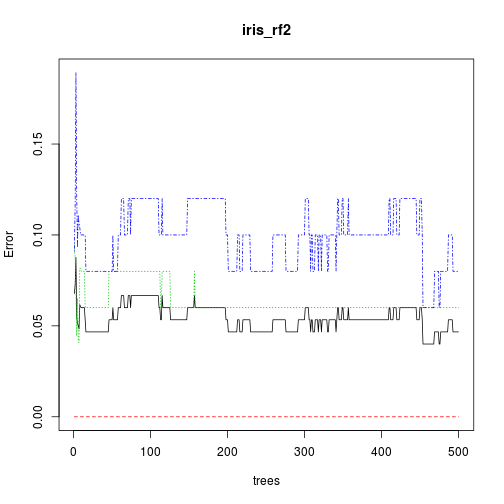
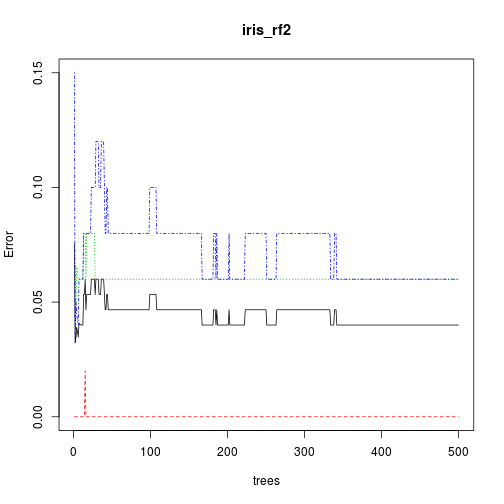
automatic build of site

diff --git a/_posts/2015-01-15-07-Analyze.md b/_posts/2015-01-15-07-Analyze.md
@@ -8,7 +8,7 @@ layout: post_page
 
 The second section will run through a quick example of using a package, `randomForest` for some analysis.  I've included this section just to show how (relatively) trivial it is to add an advanced capability to R via packages.
 
-#Quick Links to Exercises and R code
+##Quick Links to Exercises and R code
 - [Lesson 7 R Code](/gedr/rmd_posts/2015-01-14-07-Analyze.R): All the code from this post in an R Script.
 - [Exercise 1](#exercise-1): Use random forests to predict NLA condition class. 
 
@@ -55,12 +55,12 @@ iris_rf
 ##                      Number of trees: 500
 ## No. of variables tried at each split: 2
 ## 
-##         OOB estimate of  error rate: 5.33%
+##         OOB estimate of  error rate: 4%
 ## Confusion matrix:
 ##            setosa versicolor virginica class.error
 ## setosa         50          0         0        0.00
 ## versicolor      0         47         3        0.06
-## virginica       0          5        45        0.10
+## virginica       0          3        47        0.06
 {% endhighlight %}
 
 Can we predict species, well, I'd say so!  
@@ -83,12 +83,12 @@ iris_rf2
 ##                      Number of trees: 500
 ## No. of variables tried at each split: 2
 ## 
-##         OOB estimate of  error rate: 4.67%
+##         OOB estimate of  error rate: 4%
 ## Confusion matrix:
 ##            setosa versicolor virginica class.error
 ## setosa         50          0         0        0.00
 ## versicolor      0         47         3        0.06
-## virginica       0          4        46        0.08
+## virginica       0          3        47        0.06
 {% endhighlight %}
 
 The only thing we haven't seen before here is the ".".  That indicates all the other variables in the data frame.  It is just a shortcut and you could explicitly name the variables to use.

diff --git a/rmd_posts/2015-01-15-07-Analyze.md b/rmd_posts/2015-01-15-07-Analyze.md
@@ -8,7 +8,7 @@ layout: post_page
 
 The second section will run through a quick example of using a package, `randomForest` for some analysis.  I've included this section just to show how (relatively) trivial it is to add an advanced capability to R via packages.
 
-#Quick Links to Exercises and R code
+##Quick Links to Exercises and R code
 - [Lesson 7 R Code](/gedr/rmd_posts/2015-01-14-07-Analyze.R): All the code from this post in an R Script.
 - [Exercise 1](#exercise-1): Use random forests to predict NLA condition class. 
 
@@ -55,12 +55,12 @@ iris_rf
 ##                      Number of trees: 500
 ## No. of variables tried at each split: 2
 ## 
-##         OOB estimate of  error rate: 5.33%
+##         OOB estimate of  error rate: 4%
 ## Confusion matrix:
 ##            setosa versicolor virginica class.error
 ## setosa         50          0         0        0.00
 ## versicolor      0         47         3        0.06
-## virginica       0          5        45        0.10
+## virginica       0          3        47        0.06
 {% endhighlight %}
 
 Can we predict species, well, I'd say so!  
@@ -83,12 +83,12 @@ iris_rf2
 ##                      Number of trees: 500
 ## No. of variables tried at each split: 2
 ## 
-##         OOB estimate of  error rate: 4.67%
+##         OOB estimate of  error rate: 4%
 ## Confusion matrix:
 ##            setosa versicolor virginica class.error
 ## setosa         50          0         0        0.00
 ## versicolor      0         47         3        0.06
-## virginica       0          4        46        0.08
+## virginica       0          3        47        0.06
 {% endhighlight %}
 
 The only thing we haven't seen before here is the ".".  That indicates all the other variables in the data frame.  It is just a shortcut and you could explicitly name the variables to use.
